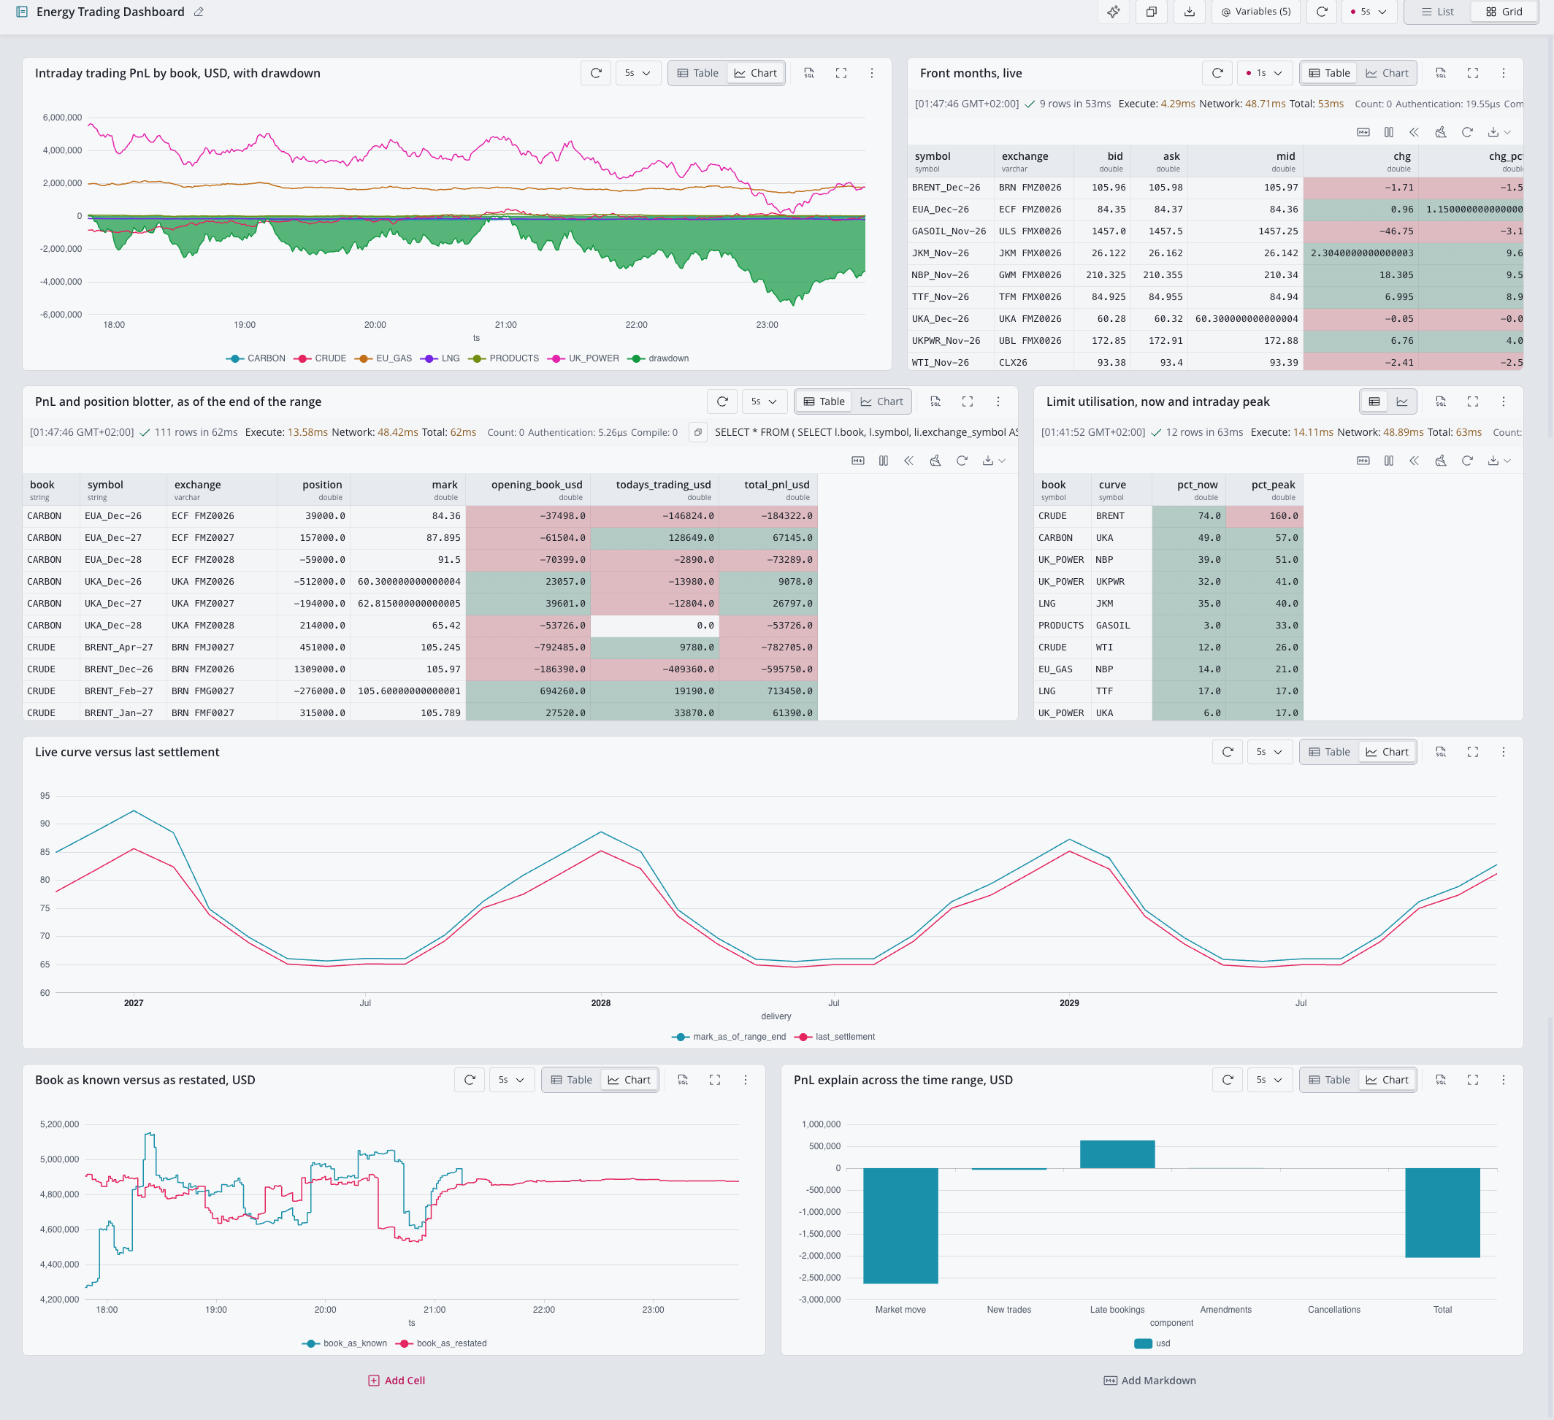
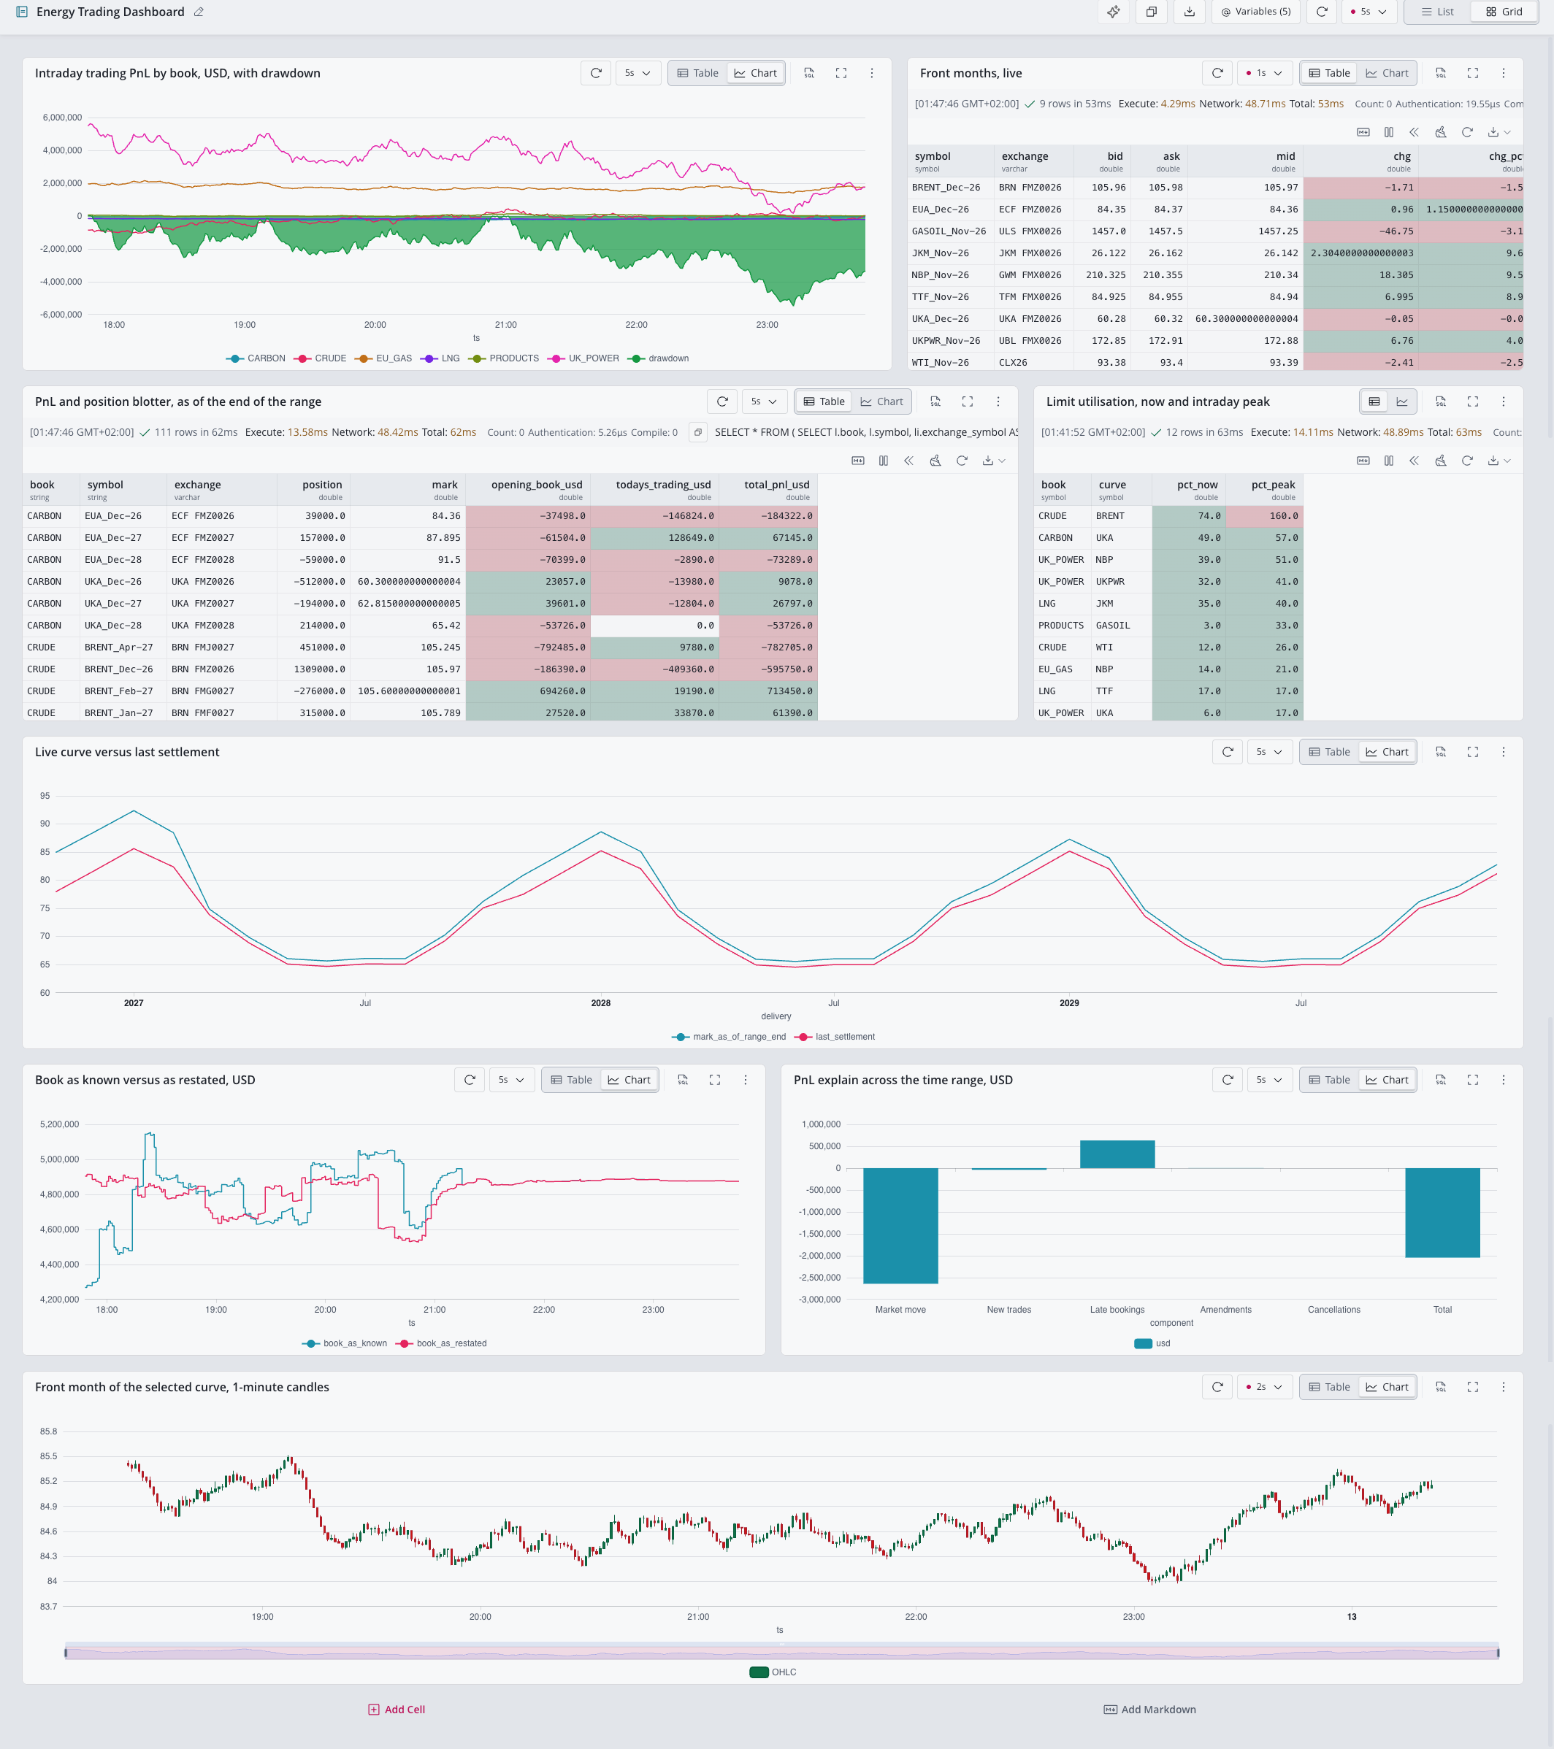
Add 1-minute candles to the Web Console notebook
The notebook gets an eighth cell, 1-minute candles for the front month of the
selected curve, which the Grafana dashboard does not have. The screenshot adds
that cell below the existing ones, and the READMEs describe eight cells.

diff --git a/energy-trading/README.md b/energy-trading/README.md
@@ -668,8 +668,9 @@ are in the [Grafana README](dashboards/grafana/README.md).
 
 [`dashboards/questdb_console/energy_trading_notebook.json`](dashboards/questdb_console/energy_trading_notebook.json)
 is the same desk as a QuestDB Web Console notebook, loaded with **Import tabs** from the
-console's tab menu. It has seven of the eight panels (no curve evolution heatmap) and
-takes its as-of instant, book and curve from notebook variables; the differences are in
+console's tab menu. It has seven of the Grafana panels (no curve evolution heatmap), plus
+1-minute candles for the front month of the selected curve, and takes its as-of instant,
+book and curve from notebook variables; the differences are in
 the [notebook README](dashboards/questdb_console/README.md).
 
 ![Energy Trading Dashboard notebook in the QuestDB Web Console](dashboards/questdb_console/screenshot.png)

diff --git a/energy-trading/dashboards/README.md b/energy-trading/dashboards/README.md
@@ -7,7 +7,7 @@ generator creates (see "Views" in `../README.md`), with the `energy_` prefix.
 | Folder | What | Load it with |
 |---|---|---|
 | [`grafana/`](grafana/README.md) | `energy_desk_dashboard.json`: the Energy Trading Desk dashboard, eight panels, for the live session | Grafana > Dashboards > New > Import |
-| [`questdb_console/`](questdb_console/README.md) | `energy_trading_notebook.json`: the same desk as a Web Console notebook, seven cells | Web Console > tab menu (top right) > Import tabs |
+| [`questdb_console/`](questdb_console/README.md) | `energy_trading_notebook.json`: the same desk as a Web Console notebook, eight cells | Web Console > tab menu (top right) > Import tabs |
 
 ## Grafana
 

diff --git a/energy-trading/dashboards/questdb_console/README.md b/energy-trading/dashboards/questdb_console/README.md
@@ -36,7 +36,8 @@ dragging the end of the Grafana range.
 
 ## How it differs from the Grafana dashboard
 
-- Seven cells: there is no curve evolution heatmap.
+- Eight cells, not quite the same eight: there is no curve evolution heatmap, and there
+  is a chart Grafana does not have, 1-minute candles for the front month of `@curve`.
 - One book or all of them, where Grafana takes any selection of books.
 - No planted-event markers on the charts.
 - Numbers are shown as the query returns them: no units, currency signs or `K`/`M`
